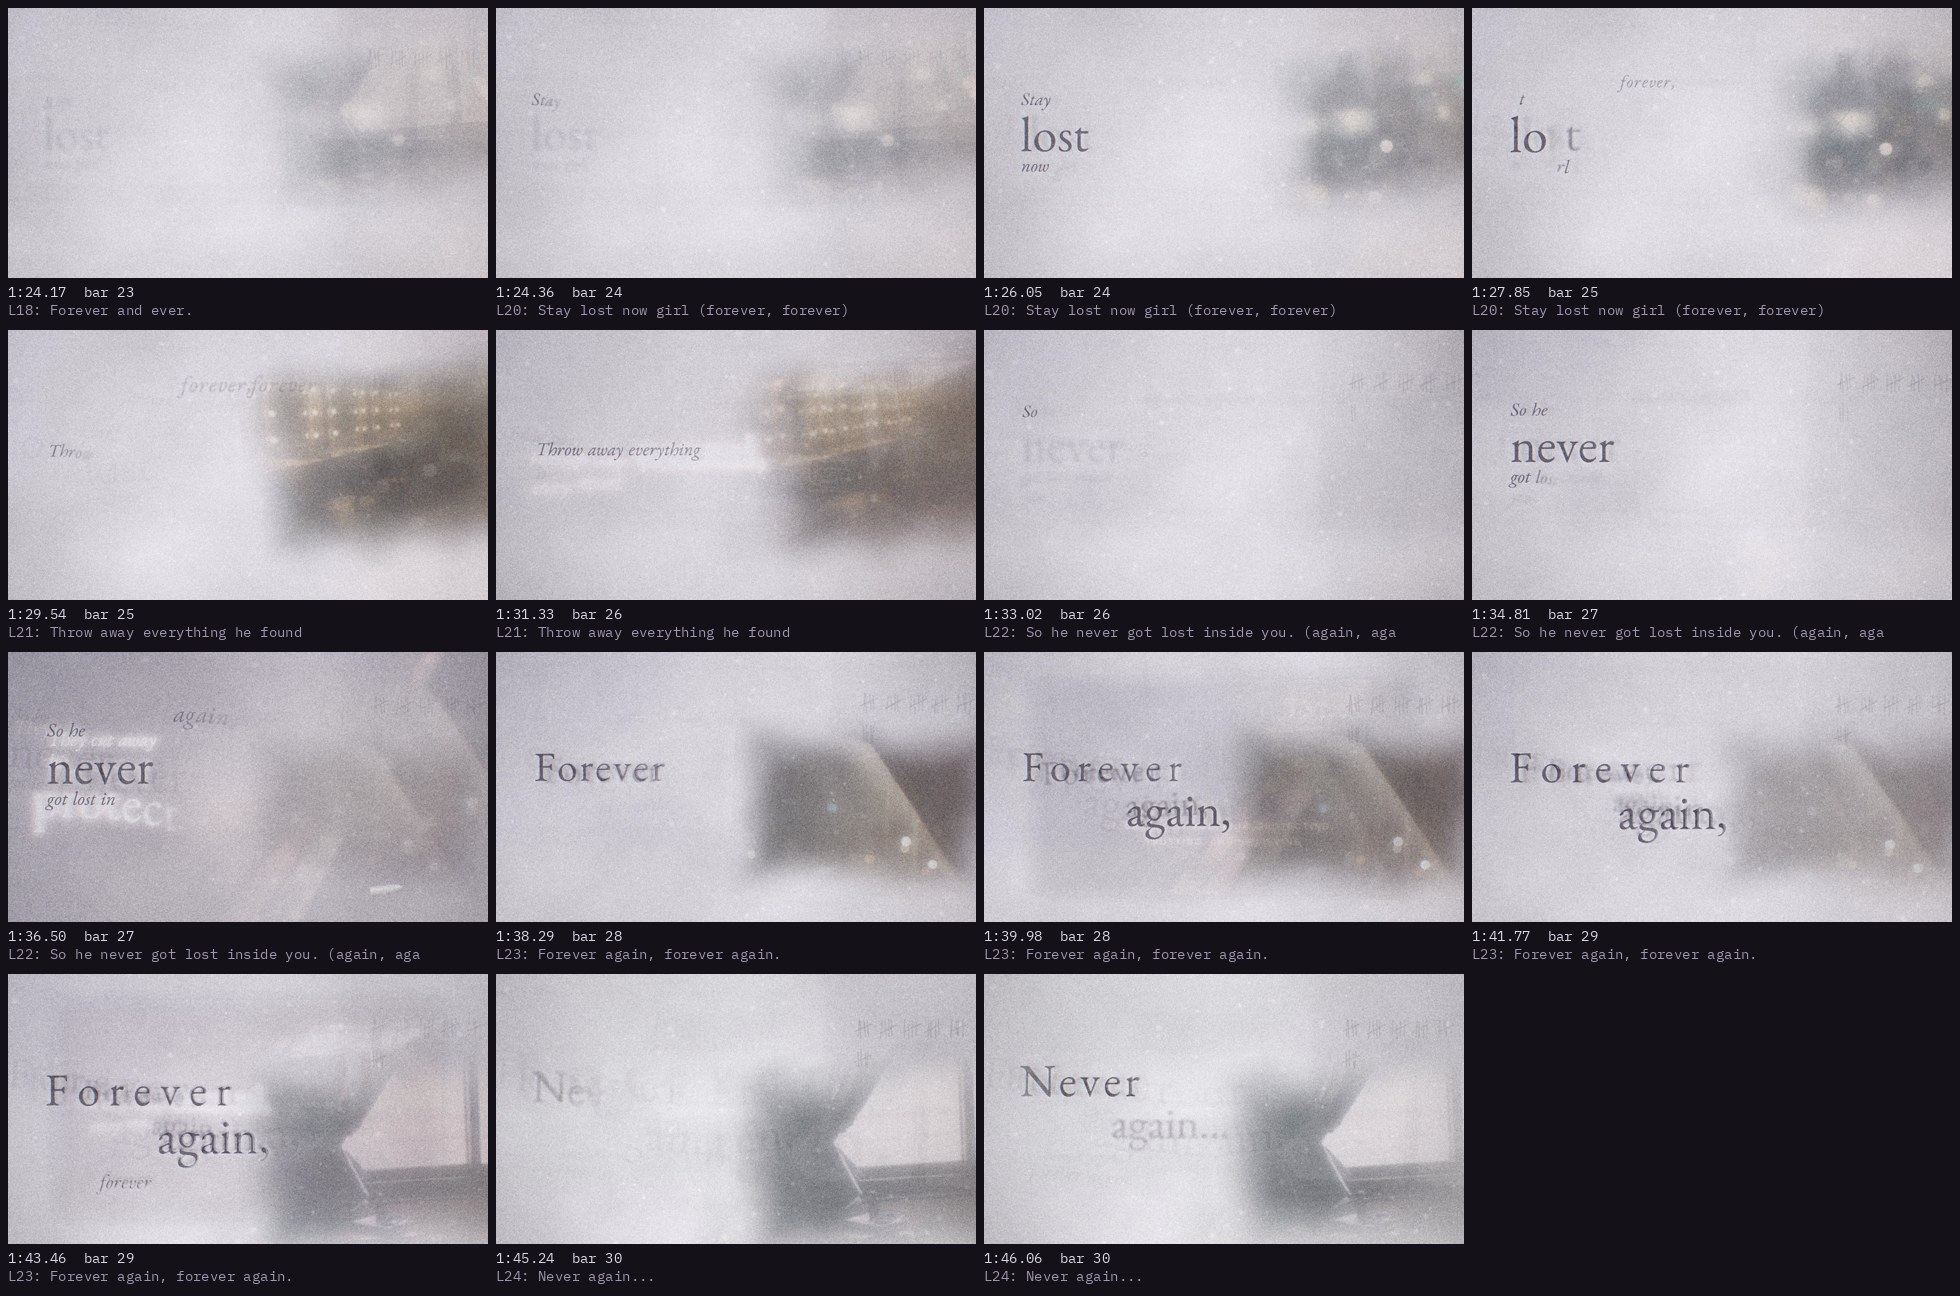
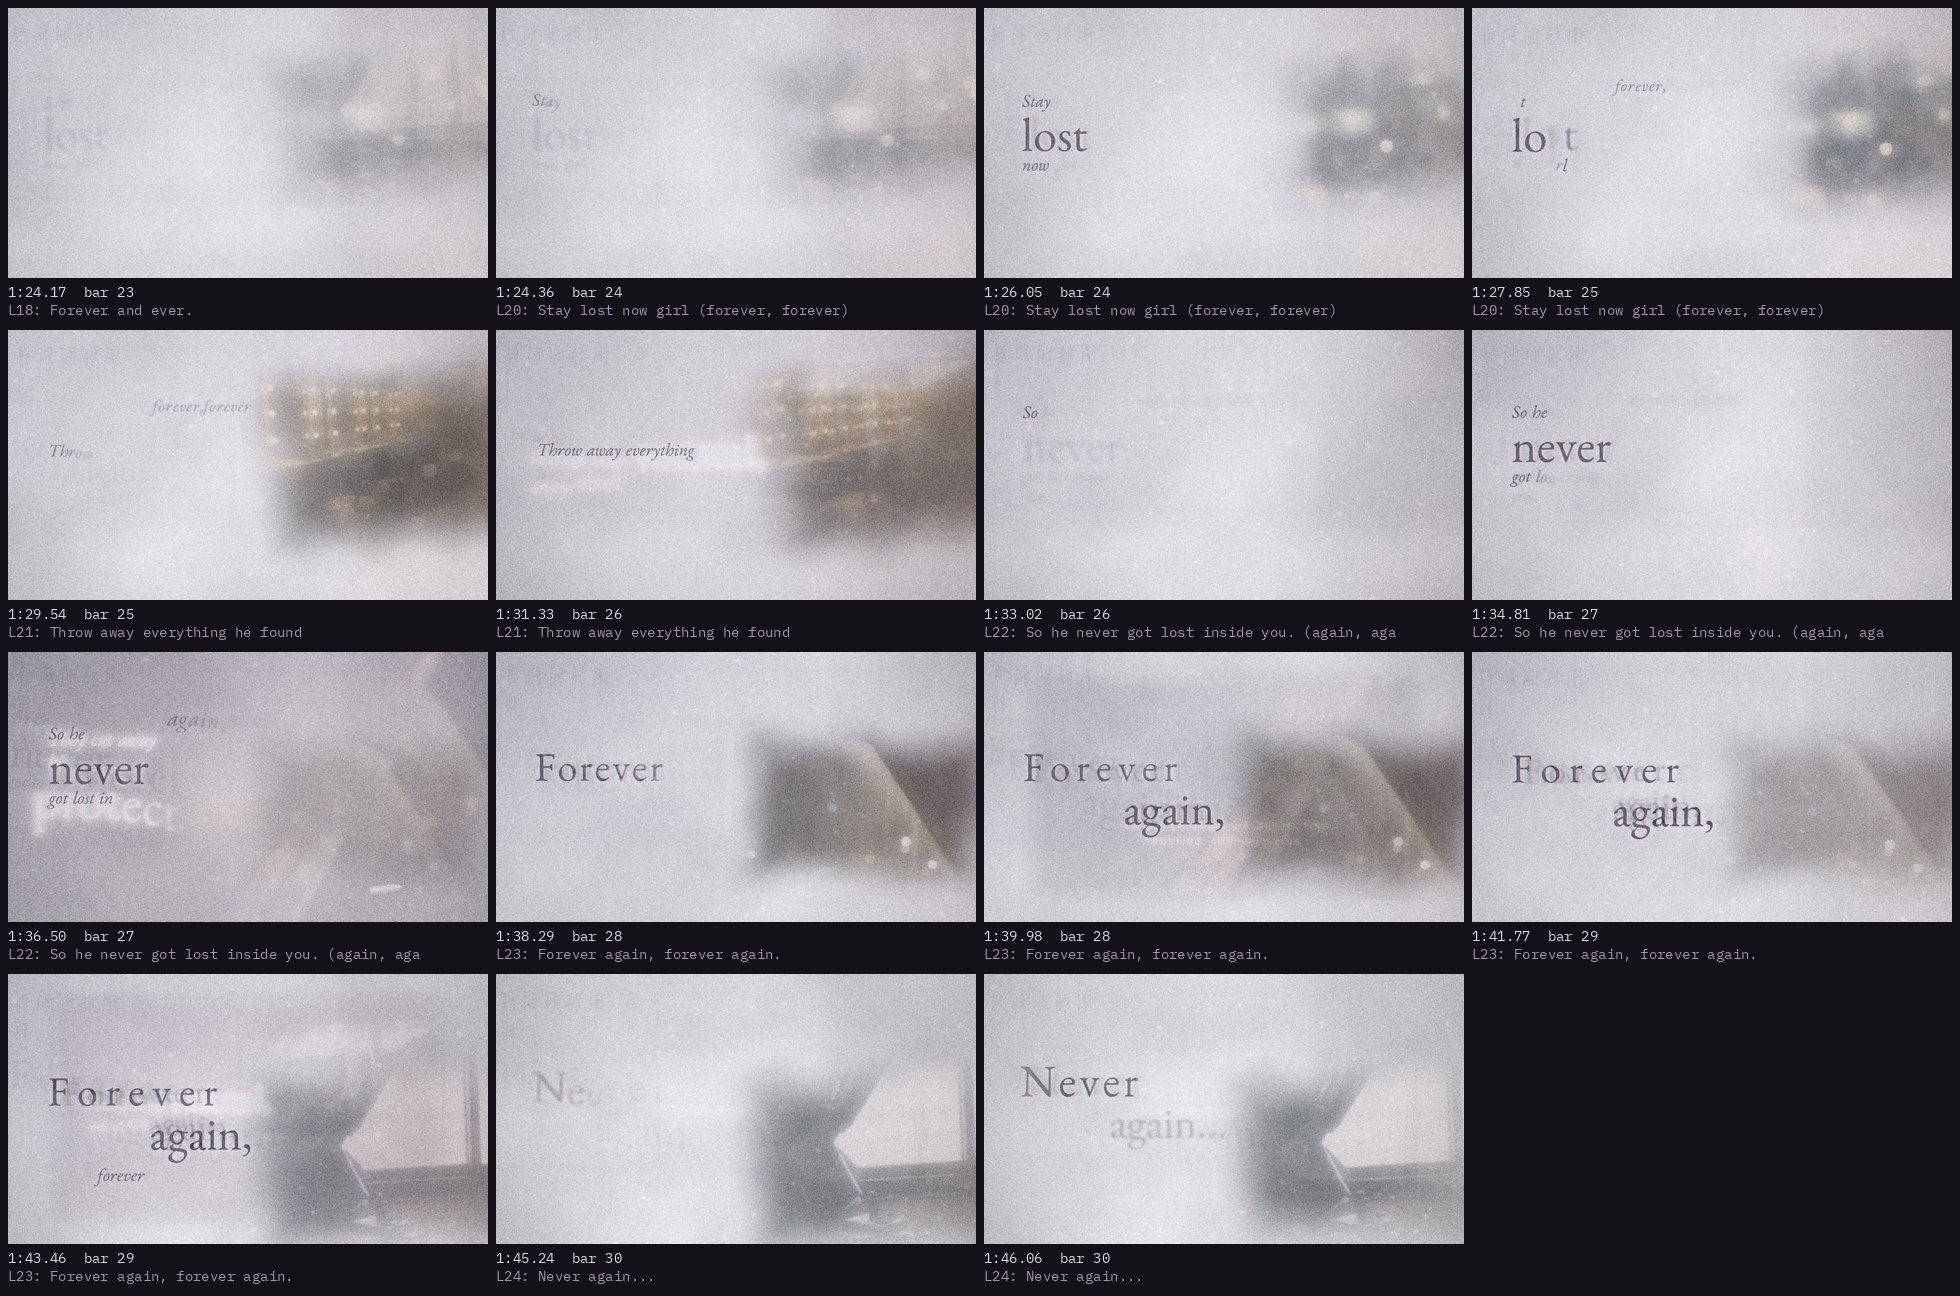
Refrain I re-rendered with calmer motion; storyboard updated
Claude-Session: https://claude.ai/code/session_013aPae8dR11r7xw8o95d9Yi

diff --git a/storyboard/index.html b/storyboard/index.html
@@ -150,7 +150,7 @@ ol.steps li::marker { font: 600 0.85rem var(--mono); color: var(--ink-2); }
   </video>
   <figcaption><b>Refrain I: Stay lost now girl</b>
     <span class="tc">1:24.2 → 1:46.3 · bars 24–30</span>
-    <span class="note">Rebuilt as prophecy: she sees the future and tries to unmake it. Words appear faintly before they are sung; &#x27;stay lost&#x27; is unwritten letter by letter; the memories are thrown out; the line rewinds and snaps forward on each &#x27;again&#x27; with flashes of the future; &#x27;forever again&#x27; recedes in a beat-stepped tunnel; a cold stop on &#x27;Never&#x27;. Web copy at 720p; the 1080p master passed QA and ffprobe. <a href="renders/refrain_i_contact.jpg">Contact sheet</a></span></figcaption>
+    <span class="note">Rebuilt as prophecy: she sees the future and tries to unmake it. Words appear faintly before they are sung; &#x27;stay lost&#x27; is unwritten letter by letter; the memories are thrown out; the line rewinds and snaps forward on each &#x27;again&#x27; with flashes of the future; &#x27;forever again&#x27; recedes in a beat-stepped tunnel; a cold stop on &#x27;Never&#x27;. Revised: calmer motion (lines drift and are unwritten, never float toward the viewer), a slow continuous tunnel, tally marks moved left. Web copy at 720p; the 1080p master passed QA and ffprobe. <a href="renders/refrain_i_contact.jpg">Contact sheet</a></span></figcaption>
 </figure>
 <figure class="render" id="render-verse_a_line6">
   <video controls playsinline preload="metadata" poster="renders/verse_a_line6_poster.jpg" width="1280" height="720">

diff --git a/storyboard/spec.py b/storyboard/spec.py
@@ -203,7 +203,7 @@ STYLE_FRAMES = [
 # Sections built so far: (slug, section name, note shown under the player)
 RENDERS = [
     ("refrain_i", "Refrain I: Stay lost now girl",
-     "Rebuilt as prophecy: she sees the future and tries to unmake it. Words appear faintly before they are sung; 'stay lost' is unwritten letter by letter; the memories are thrown out; the line rewinds and snaps forward on each 'again' with flashes of the future; 'forever again' recedes in a beat-stepped tunnel; a cold stop on 'Never'. Web copy at 720p; the 1080p master passed QA and ffprobe."),
+     "Rebuilt as prophecy: she sees the future and tries to unmake it. Words appear faintly before they are sung; 'stay lost' is unwritten letter by letter; the memories are thrown out; the line rewinds and snaps forward on each 'again' with flashes of the future; 'forever again' recedes in a beat-stepped tunnel; a cold stop on 'Never'. Revised: calmer motion (lines drift and are unwritten, never float toward the viewer), a slow continuous tunnel, tally marks moved left. Web copy at 720p; the 1080p master passed QA and ffprobe."),
     ("verse_a_line6", "Verse A: Through eyes",
      "Revised line: 'A hand, as ever as it was once'. 'ever' and 'once' set against each other on a diagonal; 'ever' keeps opening, 'once' lands. The Verse A clip below still has the old version of this line.",
      (34.5, 44.5)),
